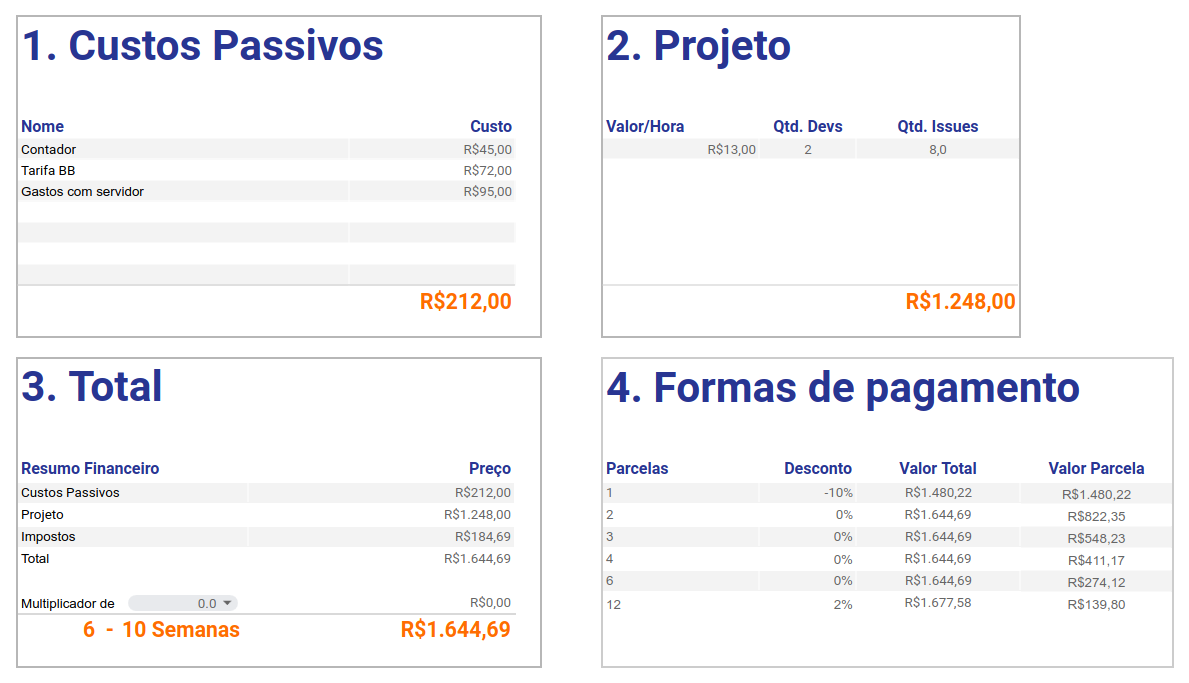
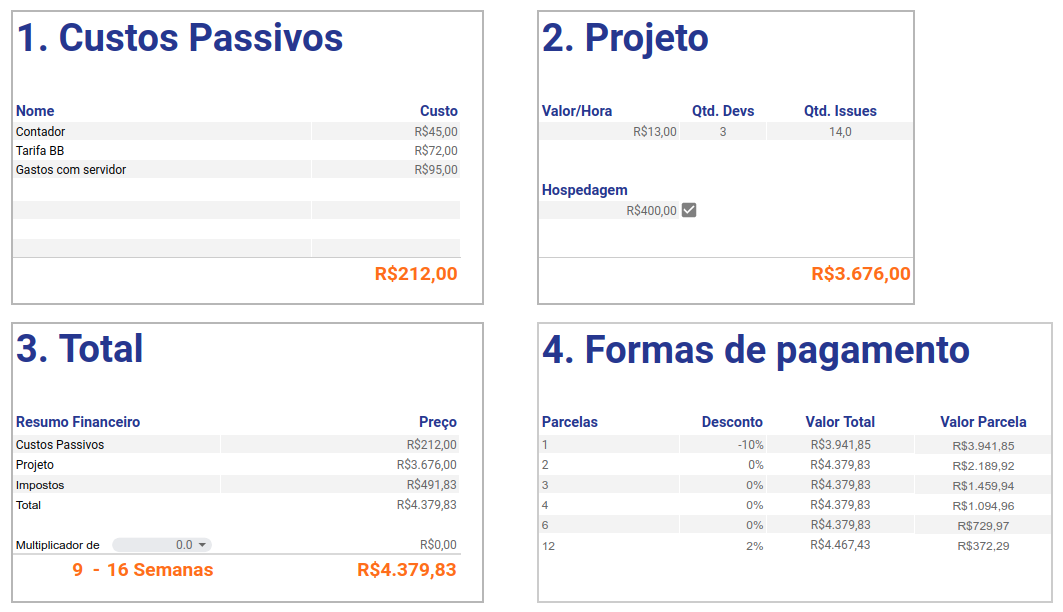
atualizando informações sobre hospedagem

diff --git a/organizacao-interna/diretoria-comercial/preficicacao.md b/organizacao-interna/diretoria-comercial/preficicacao.md
@@ -40,7 +40,7 @@ Há algumas informações necessárias que você precisa saber antes de prossegu
 
 ## Metodologia de Precificação
 
-Para aplicar a nossa metodologia utilizamos uma [planilha](https://docs.google.com/spreadsheets/d/1D9zf_UfbokxbzPC7ISCn73gs7Sdq0HRHIehmjYmfDvU/edit?usp=sharing) que contém uma página de Cálculo de Orçamento, onde multiplicamos o valor/hora (atualmente R$ 13,00), a quantidade de membros e a quantidade de issues para obter o orçamento total. 
+Para aplicar a nossa metodologia utilizamos uma [planilha](https://docs.google.com/spreadsheets/d/1D9zf_UfbokxbzPC7ISCn73gs7Sdq0HRHIehmjYmfDvU/edit?usp=sharing) que contém uma página de Cálculo de Orçamento, onde multiplicamos o valor/hora **(atualmente R$ 13,00)**, a quantidade de membros e a quantidade de issues para obter o orçamento total. Incluímos **1 ano de hospedagem com a Struct** para projetos de sites por **R$ 400,00**. Nos anos seguintes, o valor será o mesmo, mas se haver ajustes de preço comunicamos ao cliente previamente. Além disso, é importante falar para o cliente que ele pode hospedar seus sites com outros provedores, se preferir.
 
 ![Cálculo de Orçamento](/organizacao-interna/assets/comercial/Precificacao-CalculoOrcamento.png)
 
@@ -55,6 +55,13 @@ A planilha possui diferentes páginas para cada tipo de projeto, como site insti
 {% hint style="info" %}
 Nos módulos de **Entidades** e **Páginas de Conteúdo e Layout Básico**, usamos meia issue (0,5) para as entidades e páginas fáceis de implementar podendo aumentar ou diminuir o valor unitário da issue dependendo do projeto. Não existe meia issue na prática, porém foi definido assim por convenção devido a grande componentização e reúso de código dessas partes do projeto.
 {% endhint %}
+
+## Hospedagem
+
+R$ 400,00/ano para **fazer o deploy** do site (colocar ele no ar), **1 ano de hospedagem e manutenção da Struct** durante esse período para cuidar do servidor.
+É um uma assinatura porque temos que hospedar com terceiros primeiramente e também porque um membro de projetos sempre vai ficar atento se o site ficou fora do ar e prestar suporte quando necessário.
+
+Separadamente o domínio do site (registro.br) custa **R$ 40,00/ano**, hospedagem **R$ 50,00/mês** e o banco de dados **U$ 5,00/mês (~R$25,00/mês)**. Sai mais caro se o cliente for fazer por conta.
 
 ## Observações
 
